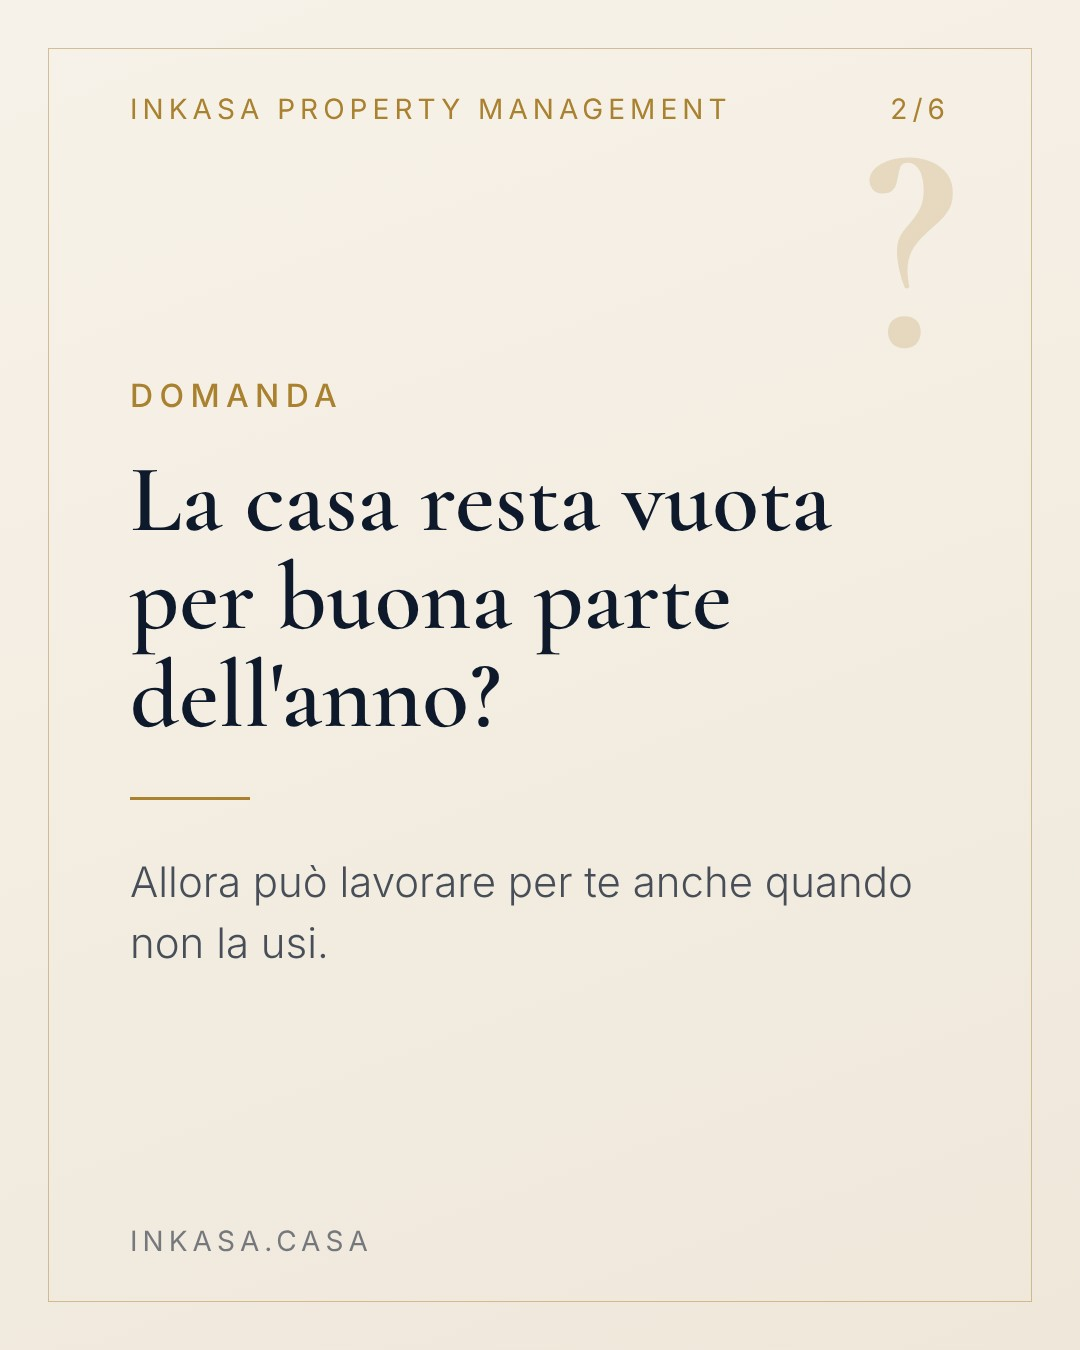
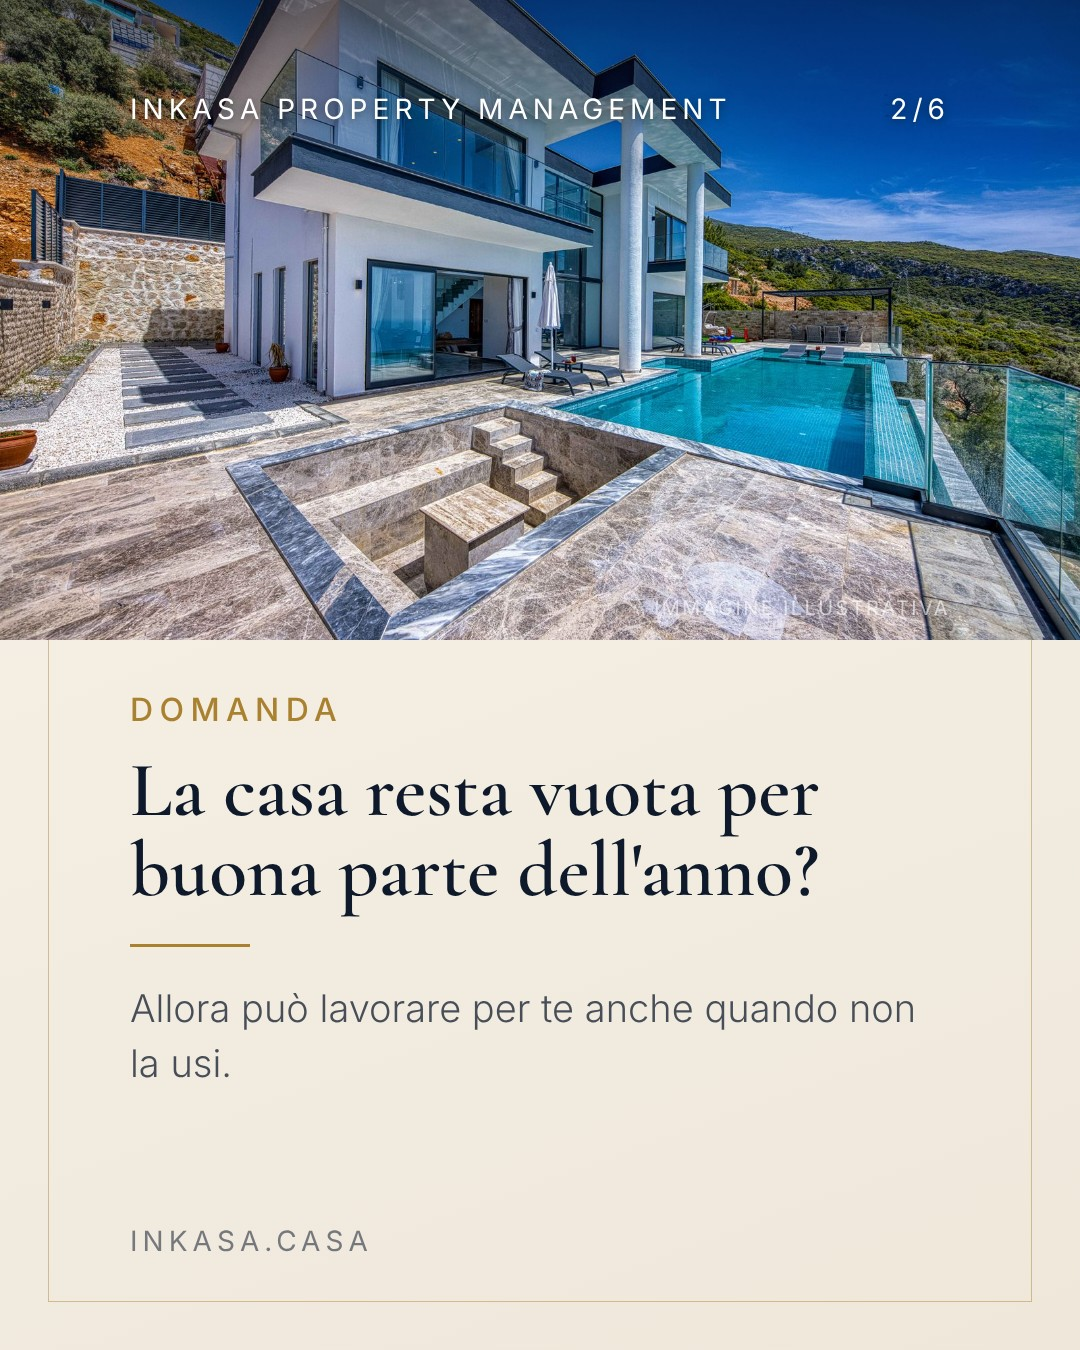
Instagram: foto in tutti i caroselli (copertina + almeno 2 slide), nuove foto stock mare/montagna/cucine/bagni
Claude-Session: https://claude.ai/code/session_01V4CJc66vMc3snWJq8v9F1q

diff --git a/instagram/strumenti/carosello.js b/instagram/strumenti/carosello.js
@@ -17,6 +17,7 @@
 //   quote   q, by                          — frase grande (by opzionale)
 //   compare h, left{t,items[]}, right{t,items[]} — prima/dopo, da solo/con Inkasa
 //   photo   image, h, p                    — foto a tutto schermo con didascalia
+// Ogni slide (in ogni tema) può avere "img": foto nella metà alta della slide, testo sotto.
 //   recap   h, items[]                     — riepilogo da salvare
 //   cta     h, p, kw                       — invito finale (kw default VALUTAZIONE)
 // Un vecchio slides.json che è un array semplice vale come { theme: "dark", slides: [...] }; "err" = "step".
@@ -55,7 +56,7 @@ function body(s) {
     default: throw new Error('tipo di slide sconosciuto: ' + s.t);
   }
 }
-function hasPhoto(s) { return !!(s.image || (theme === 'photo' && (s.t === 'photo' || s.t === 'cover') && deck.photo)); }
+function hasPhoto(s) { return !!(s.img || s.image || (theme === 'photo' && (s.t === 'photo' || s.t === 'cover') && deck.photo)); }
 function sectionStyle(s) {
   const ph = s.image || (theme === 'photo' && (s.t === 'photo' || s.t === 'cover') ? deck.photo : '');
   if (!ph) return '';
@@ -99,9 +100,20 @@ ul.chk li{font-size:44px;padding:22px 0;display:flex;align-items:center;gap:30px
 .ph-cap h2{font-size:92px;text-shadow:0 4px 30px rgba(0,0,0,.35)}
 .ph-cap p{margin-top:24px}
 .ill{position:absolute;right:130px;bottom:94px;font-size:20px;letter-spacing:.12em;text-transform:uppercase;color:rgba(255,255,255,.6)}
+.has-img{justify-content:flex-start;padding-top:690px;padding-bottom:150px}
+.has-img ul.chk{margin-top:30px}.has-img ul.chk li{font-size:38px;padding:12px 0}.has-img .box{width:46px;height:46px;font-size:30px}
+.has-img .kicker,.has-img .label{margin-bottom:22px}
+.has-img .imgbox{position:absolute;left:0;right:0;top:0;height:640px;background-size:cover;background-position:center}
+.has-img .imgbox::after{content:"";position:absolute;inset:0;background:linear-gradient(180deg,rgba(8,14,26,.45) 0%,rgba(8,14,26,0) 35%)}
+.has-img .top{color:#fff;z-index:2;text-shadow:0 2px 10px rgba(0,0,0,.5)}
+.has-img .num,.has-img .qmark,.has-img .swipe{display:none}
+.has-img h1.cover{font-size:112px}.has-img h2{font-size:78px}.has-img h2.big{font-size:84px}.has-img h2.quote{font-size:88px}
+.has-img .rule{margin:34px 0}.has-img p,.has-img .sub{font-size:38px}
+.has-img .qq{height:90px;font-size:240px}
+.has-img .ill{bottom:auto;top:596px;z-index:2}
 .kw{margin-top:30px;align-self:flex-start;border:2px solid ${T.acc};color:${T.acc};padding:22px 44px;font-size:40px;letter-spacing:.22em;font-weight:600}
 </style></head><body>
-${slides.map((s, i) => `<section class="t-${s.t}"${sectionStyle(s)}><div class="top"><span>Inkasa Property Management</span><span>${i + 1}/${N}</span></div>${body(s)}<div class="foot"><span>inkasa.casa</span></div>${deck.stock && hasPhoto(s) ? '<div class="ill">Immagine illustrativa</div>' : ''}</section>`).join('\n')}
+${slides.map((s, i) => `<section class="t-${s.t}${s.img ? ' has-img' : ''}"${sectionStyle(s)}>${s.img ? `<div class="imgbox" style="background-image:url('${img(s.img)}')"></div>` : ''}<div class="top"><span>Inkasa Property Management</span><span>${i + 1}/${N}</span></div>${body(s)}<div class="foot"><span>inkasa.casa</span></div>${deck.stock && hasPhoto(s) ? '<div class="ill">Immagine illustrativa</div>' : ''}</section>`).join('\n')}
 </body></html>`;
 
 (async () => {

diff --git a/instagram/linee-guida.md b/instagram/linee-guida.md
@@ -43,6 +43,10 @@ foto nuove di case gestite, almeno un carosello su due usa `photo`. Finché non 
 le foto stock di `media/stock/` (ville e interni di design) con `"stock": true`: compare "Immagine illustrativa"
 e la didascalia non deve mai far credere che sia una casa gestita da Inkasa.
 
+**Foto in ogni carosello** (qualsiasi tema): copertina sempre con foto (`img` nella copertina) e almeno
+2 slide con foto. Nei temi dark/cream/gold si usa `img` (foto nella metà alta, testo sotto); nel tema photo
+le slide `photo`. Non usare la stessa foto stock in due caroselli della stessa settimana.
+
 **Modelli di carosello** (scegliere il tipo di slide in base al modello):
 | modello | slide principali |
 | --- | --- |

diff --git a/instagram/media/stock/CREDITI.md b/instagram/media/stock/CREDITI.md
@@ -17,3 +17,10 @@ Appena ci sono foto vere in `media/<nome-casa>/`, hanno la precedenza.
 | 34574357.jpg | https://www.pexels.com/photo/34574357/ |
 | 37252541.jpg | https://www.pexels.com/photo/37252541/ |
 | 8082228.jpg | https://www.pexels.com/photo/8082228/ |
+| 19737857.jpg | https://www.pexels.com/photo/19737857/ |
+| 31762677.jpg | https://www.pexels.com/photo/31762677/ |
+| 16292080.jpg | https://www.pexels.com/photo/16292080/ |
+| 35189706.jpg | https://www.pexels.com/photo/35189706/ |
+| 6920614.jpg | https://www.pexels.com/photo/6920614/ |
+| 6585741.jpg | https://www.pexels.com/photo/6585741/ |
+| 16113326.jpg | https://www.pexels.com/photo/16113326/ |
